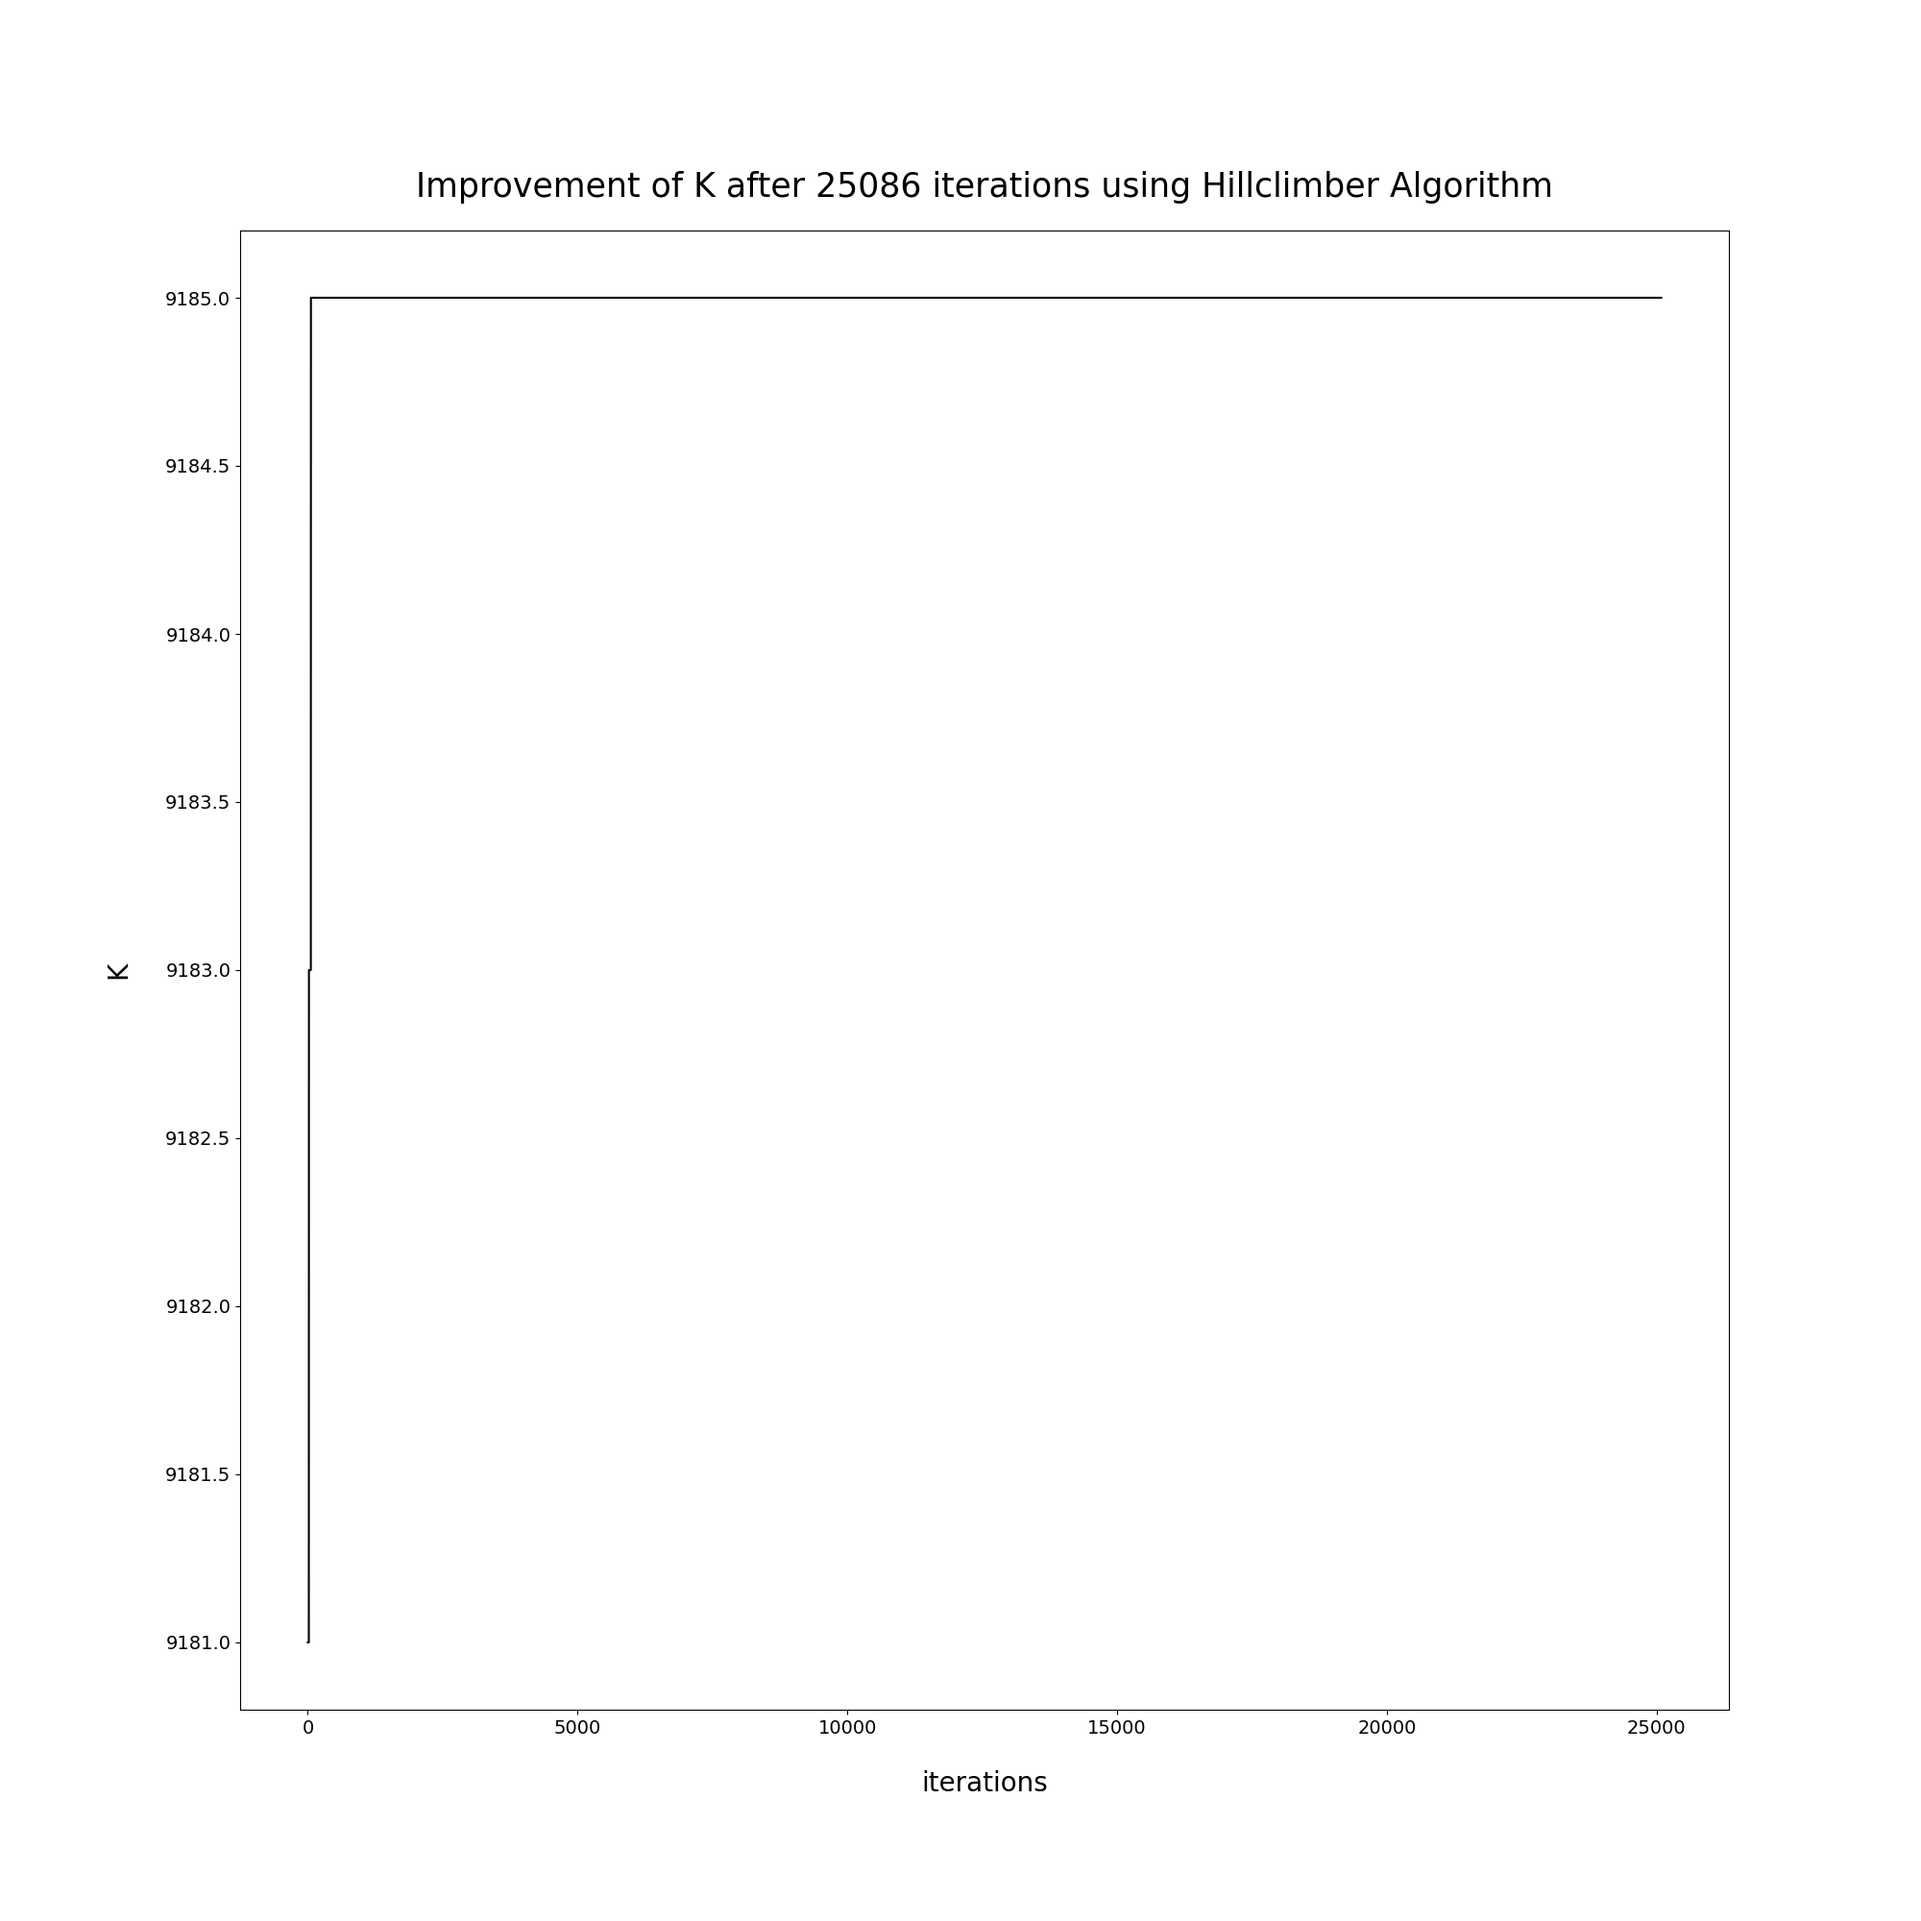
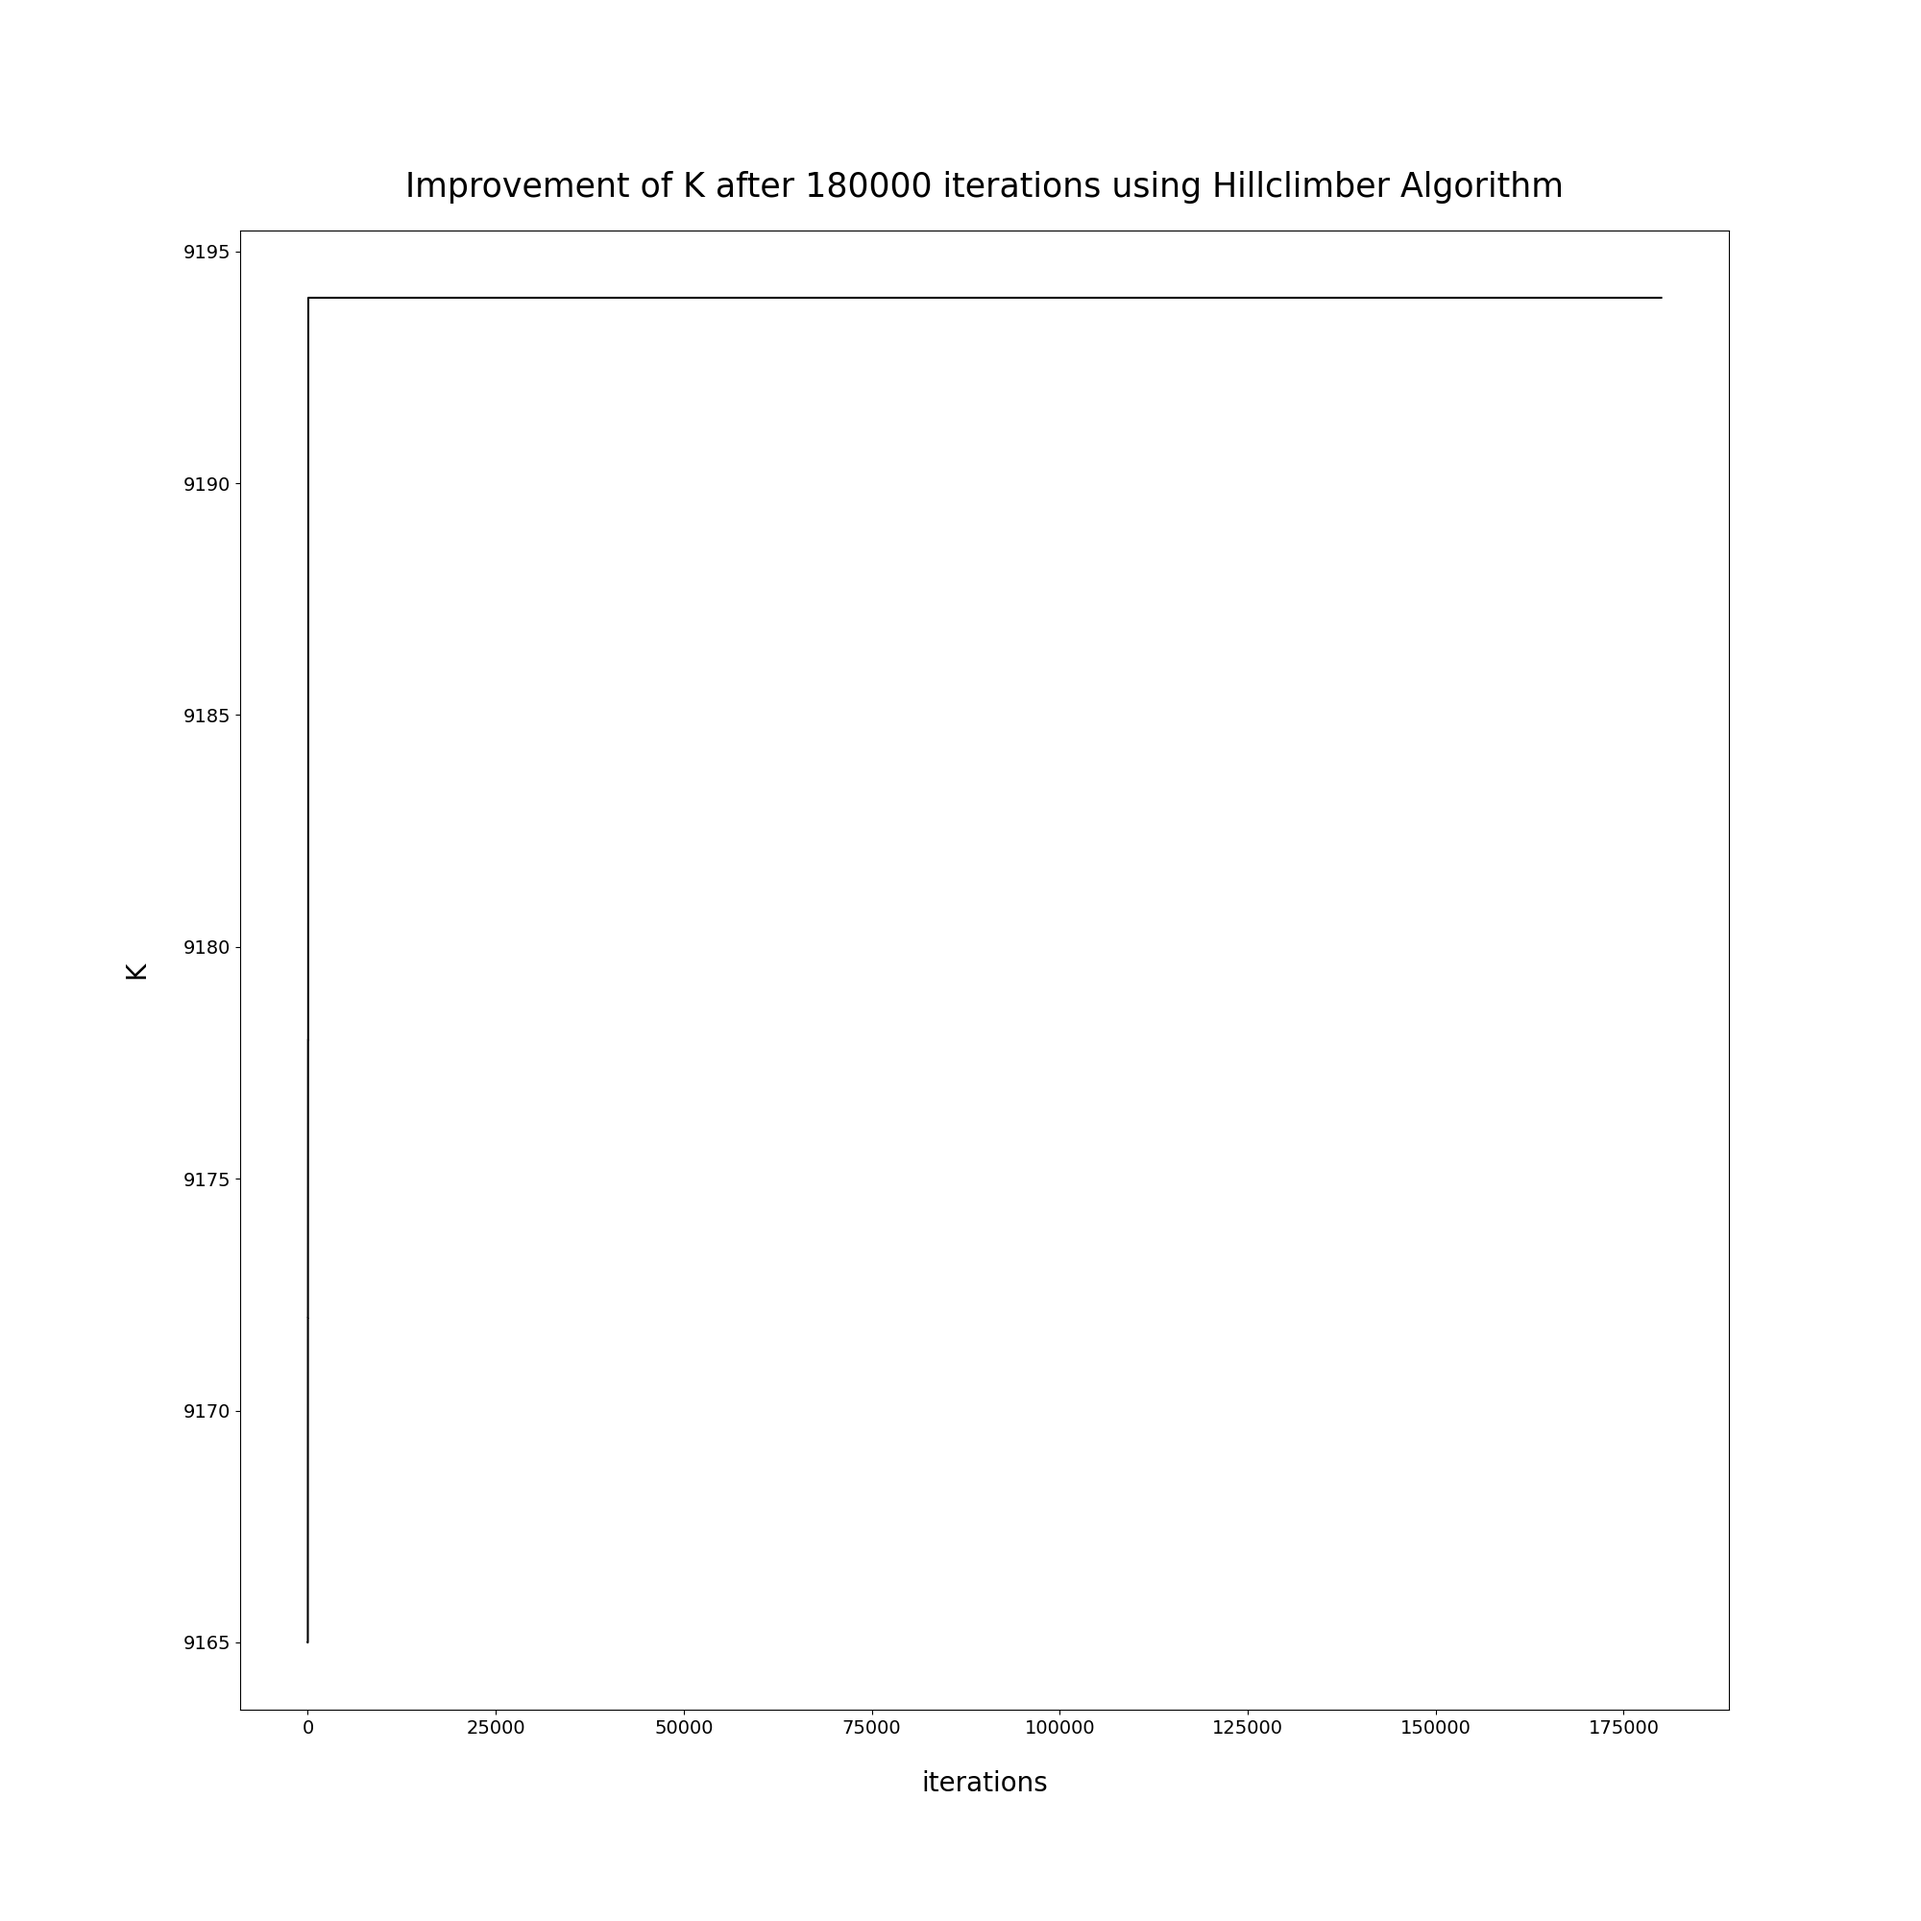
add iterations to hillclimber

diff --git a/code/algorithms/hillclimber.py b/code/algorithms/hillclimber.py
@@ -16,12 +16,12 @@ class Hillclimber:
     Hillclimber class that aims to optimize K by small mutations 
     """
 
-    def __init__(self, graph, prefer_unused_connection, save_output, alg_choice, remove_traject, runtime, sim_anneal, lin_or_exp, restart):
+    def __init__(self, graph, prefer_unused_connection, save_output, alg_choice, remove_traject, iterations, sim_anneal, lin_or_exp, restart):
         self.graph = copy.deepcopy(graph)
-        self.runtime = runtime 
         self.prefer_unused_connection = prefer_unused_connection
         self.remove_traject = remove_traject
         self.save_output = save_output
+        self.iterations = iterations
         self.alg_choice = alg_choice
         self.restart = restart
         self.all_K = []
@@ -153,10 +153,7 @@ class Hillclimber:
             sys.exit("Algorithm not (yet) implemented")
 
         # Determine if new solution needs to be accepted
-        print(temperature)
         if float(temperature) > 0.0001:
-            print(float(new_graph.K - old_graph.K))
-            print(i)
             acceptation_probability = Decimal(2 ** (Decimal(new_graph.K - old_graph.K) / Decimal(temperature)))
         else: 
             acceptation_probability = 0
@@ -194,7 +191,7 @@ class Hillclimber:
         n_sols = 0
         n_repeat = 0
 
-        while time.time() - start < self.runtime:
+        while n_runs < self.iterations:
             n_runs += 1
             print(f"run: {n_runs}")
 
@@ -247,6 +244,9 @@ class Hillclimber:
 
         self.all_K = all_K
         self.all_opt_K = all_opt_K
+
+        # print time
+        print(f"\n time passed: {time.time() - start}")
 
         # save results
         if self.save_output == True:

diff --git a/main.py b/main.py
@@ -90,8 +90,10 @@ def main():
         if algorithm.upper() == "R" or algorithm.upper() == "RANDOM":
             question = input("Select goal: 1 solution (all connection, return 1) or optimal solution (return 2): ")
 
-        if ((algorithm.upper() == "R" or algorithm.upper() == "RANDOM") and question == '2') or (algorithm.upper() != "R"):
+        if ((algorithm.upper() == "R" or algorithm.upper() == "RANDOM") and question == '2') or (algorithm.upper() != "R" and algorithm.upper() != "HC") :
             runtime = input("Type runtime in seconds: ")
+        elif (algorithm.upper() == "HC"):
+            iterations = input("type number of iterations: ")
         
         # Ask user to apply heuristic yes or no
         prefer_unused_connection = input("Would you like to give unused connections priority? yes (return y) no return (n): ")
@@ -160,7 +162,7 @@ def main():
                 restart = int(restart)
 
             # create object and run algorithm
-            hillclimber = hc.Hillclimber(railway_map, prefer_unused_connection, save_output, alg_choice, remove_traject, int(runtime), sim_anneal, lin_or_exp, restart)
+            hillclimber = hc.Hillclimber(railway_map, prefer_unused_connection, save_output, alg_choice, remove_traject, int(iterations), sim_anneal, lin_or_exp, restart)
             hillclimber.run()
             final_graph = hillclimber.graph
 

diff --git a/code/visualisation/visualise.py b/code/visualisation/visualise.py
@@ -241,8 +241,6 @@ def visualise_opt_K_improvement(all_opt_K, algorithm_name, extension):
     """
     print("\nLoading visualisation of improvement K over iterations ...\n")
 
-    print(all_opt_K)
-    
     fig = plt.figure(figsize=(20,20))
     plt.plot(all_opt_K.keys(), all_opt_K.values(), color = 'black')
     plt.xlabel('iterations', fontsize = 20, labelpad=25)
